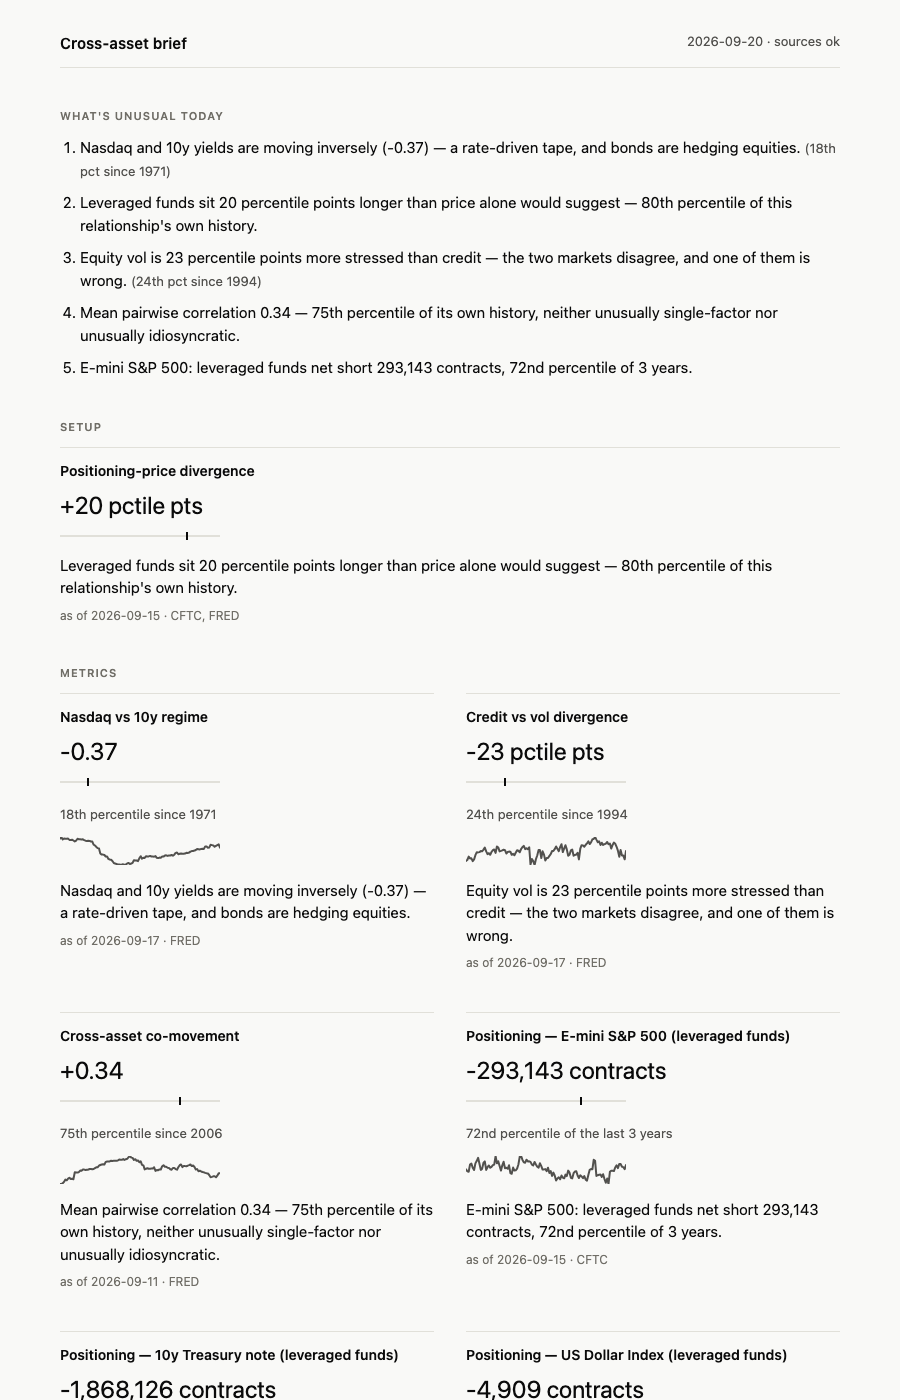
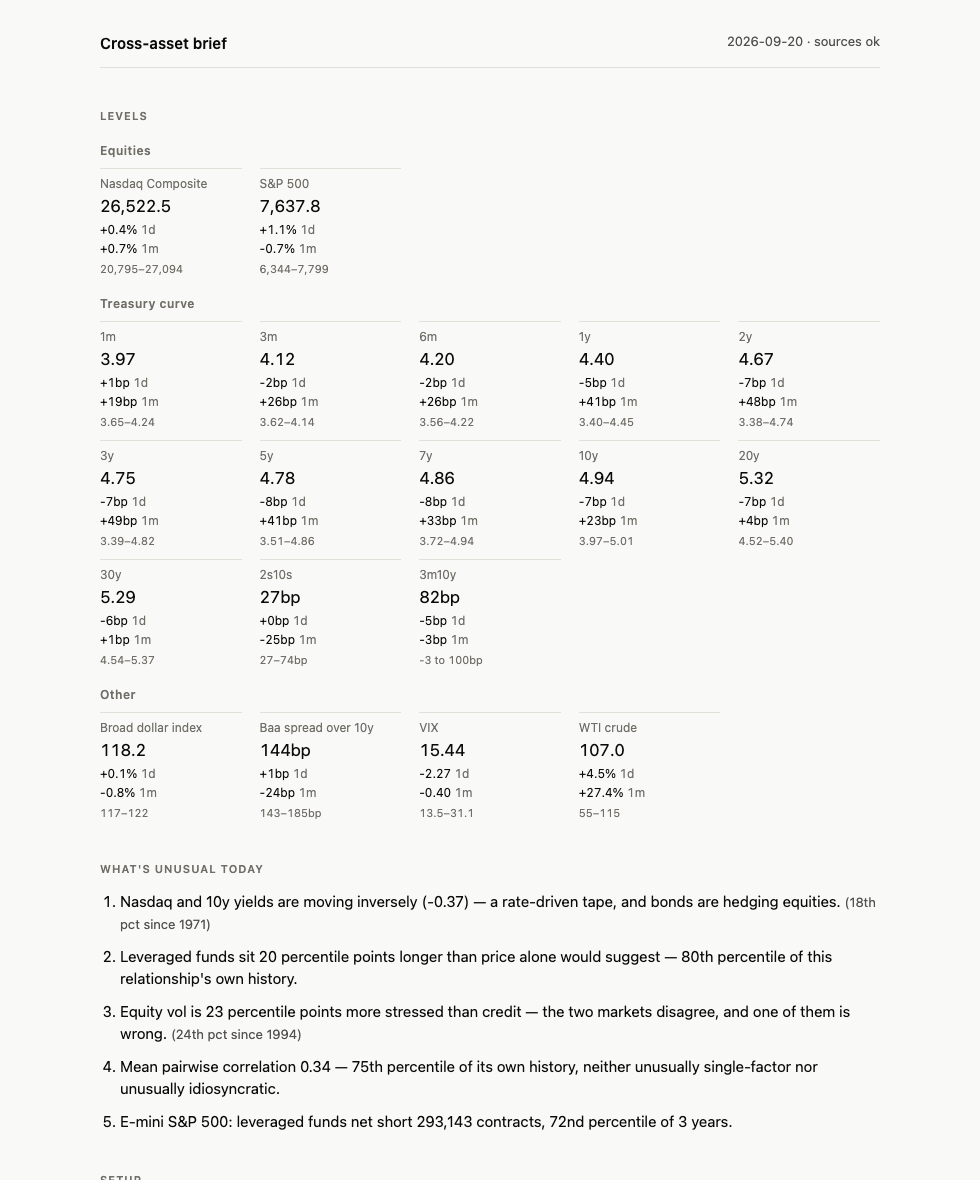
fix: quote a negative range with 'to', refresh README and screenshot
"-3–100bp" sets a minus sign against an en dash and reads as a typo; 3m10y's
trailing-year low is negative whenever the curve inverted during the window.

diff --git a/src/brief/render/page.py b/src/brief/render/page.py
@@ -48,14 +48,19 @@ def change_text(value: float | None, quote: str) -> str:
 
 
 def range_text(row) -> str:
-    """The trailing-year low and high, in the row's own convention."""
+    """The trailing-year low and high, in the row's own convention.
+
+    A negative low takes "to" rather than an en dash: "-3–100bp" sets a
+    minus sign against a dash and reads as a typo.
+    """
+    joiner = " to " if row.low_1y < 0 else "–"
     if row.quote == "price":
-        return f"{row.low_1y:,.0f}–{row.high_1y:,.0f}"
+        return f"{row.low_1y:,.0f}{joiner}{row.high_1y:,.0f}"
     if row.quote == "bp":
-        return f"{row.low_1y * 100:,.0f}–{row.high_1y * 100:,.0f}bp"
+        return f"{row.low_1y * 100:,.0f}{joiner}{row.high_1y * 100:,.0f}bp"
     if row.quote == "points":
-        return f"{row.low_1y:.1f}–{row.high_1y:.1f}"
-    return f"{row.low_1y:.2f}–{row.high_1y:.2f}"
+        return f"{row.low_1y:.1f}{joiner}{row.high_1y:.1f}"
+    return f"{row.low_1y:.2f}{joiner}{row.high_1y:.2f}"
 
 
 def _environment() -> Environment:

diff --git a/tests/test_render.py b/tests/test_render.py
@@ -497,3 +497,13 @@ def test_the_live_board_quotes_vix_in_points_and_the_curve_spread_in_basis_point
     assert SERIES["credit"].quote == "bp"
     assert SERIES["ust10"].quote == "yield"
     assert SERIES["equity"].quote == "price"
+
+
+def test_a_range_whose_low_is_negative_reads_as_to_rather_than_a_dash():
+    """"-3–100bp" puts a minus sign against an en dash and reads as a typo."""
+    row = _row(key="3m10y", quote="bp", level=0.82, low_1y=-0.03, high_1y=1.00)
+    assert range_text(row) == "-3 to 100bp"
+
+
+def test_a_wholly_positive_range_keeps_the_compact_dash():
+    assert range_text(_row(quote="yield", low_1y=3.55, high_1y=4.81)) == "3.55–4.81"

diff --git a/tests/test_registry.py b/tests/test_registry.py
@@ -59,3 +59,13 @@ def test_explanations_are_prose_not_restatements_of_the_title():
         if m.why.strip().lower().rstrip(".") == m.title.strip().lower()
     ]
     assert echoes == []
+
+
+def test_the_divergence_explanation_names_its_trader_category_in_lower_case():
+    """The category is capitalised where it opens an interpretation sentence.
+    Reusing that form mid-sentence in `why` reads as a proper noun."""
+    from brief.config import CONTRACTS
+
+    why = REGISTRY["divergence"].why
+    assert CONTRACTS["es"].trader_category in why
+    assert CONTRACTS["es"].trader_category.capitalize() not in why

diff --git a/src/brief/metrics/positioning.py b/src/brief/metrics/positioning.py
@@ -138,7 +138,7 @@ divergence = register(
         interpret=_interpret_divergence,
         unit="pctile pts",
         why=(
-            f"Where {DIVERGENCE_CATEGORY} positioning in "
+            f"Where {CONTRACTS[DIVERGENCE_CONTRACT].trader_category} positioning in "
             f"{CONTRACTS[DIVERGENCE_CONTRACT].label} futures sits in its three-year "
             "range, minus where the index price sits in its three-month range."
         ),

diff --git a/README.md b/README.md
@@ -7,6 +7,25 @@ static HTML page with no backend and no client-side JavaScript.
 
 ![Screenshot of the rendered brief](docs/img/screenshot.png)
 
+## The levels board
+
+Above the analysis sits a reference board: equities, the full Treasury curve
+(1m through 30y plus 2s10s and 3m10y), the dollar, credit, volatility and
+crude. Each carries its level, its 1-day and 1-month move, and its trailing
+one-year range.
+
+The range column is the one that earns its place. A level on its own says
+nothing about whether it is high or low, and the point of seeing these daily is
+to learn their scale rather than to monitor them.
+
+Two display conventions are kept separate on purpose. `kind` decides the
+differencing rule used by the metrics — price-like series become log returns,
+rate-like series become first differences. `quote` decides only how a number is
+written. They are not the same question: VIX is rate-like for the maths but is
+quoted in vol points, and the first build of this board rendered a 2.27-point
+VIX move as "-227bp". Curve spreads and credit are quoted in basis points, not
+as decimals.
+
 ## Why these metrics
 
 Every tile has to earn its place by showing something a consumer finance app
@@ -62,6 +81,11 @@ fact — "62nd percentile of its own history" — it never claims the reading is
 unremarkable, and equally it never makes a tail-strength claim like
 "diversification is not working today" off a 75th-percentile reading. The
 percentile carries the judgment; the prose only ever states what happened.
+
+Every tile carries a collapsed "why this is here" disclosure holding two
+sentences: what the metric measures, and what a reader should conclude from it.
+`why` and `implication` are required fields on `Metric`, alongside `interpret` —
+a metric nobody can justify in two sentences cannot be registered.
 
 ## Why explainable over sophisticated
 
